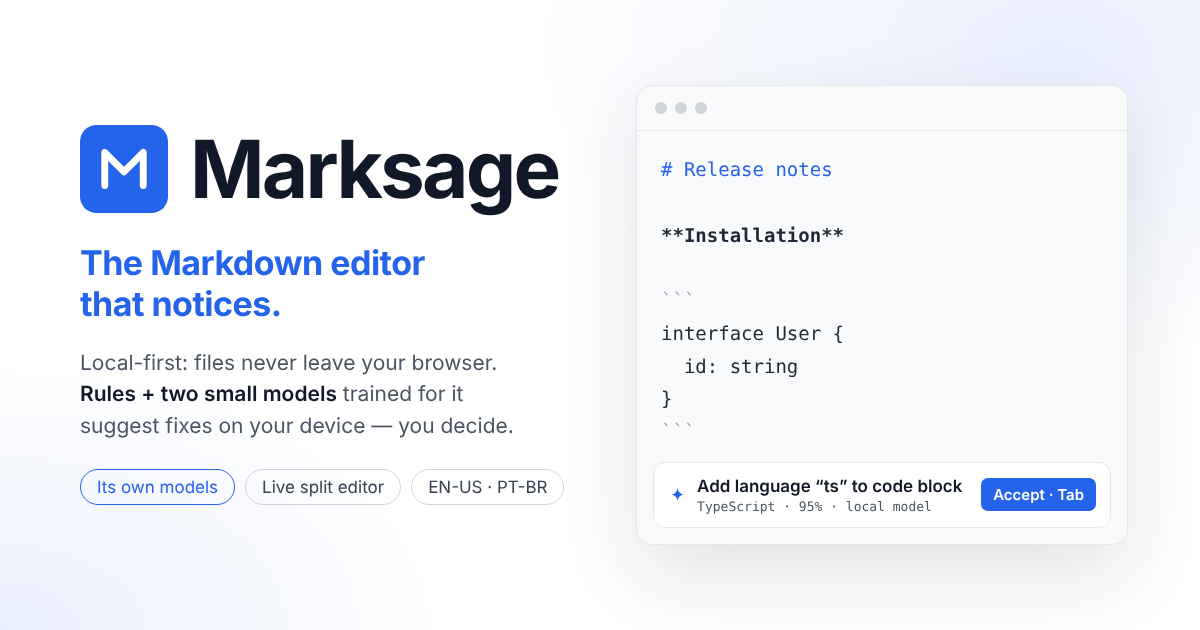
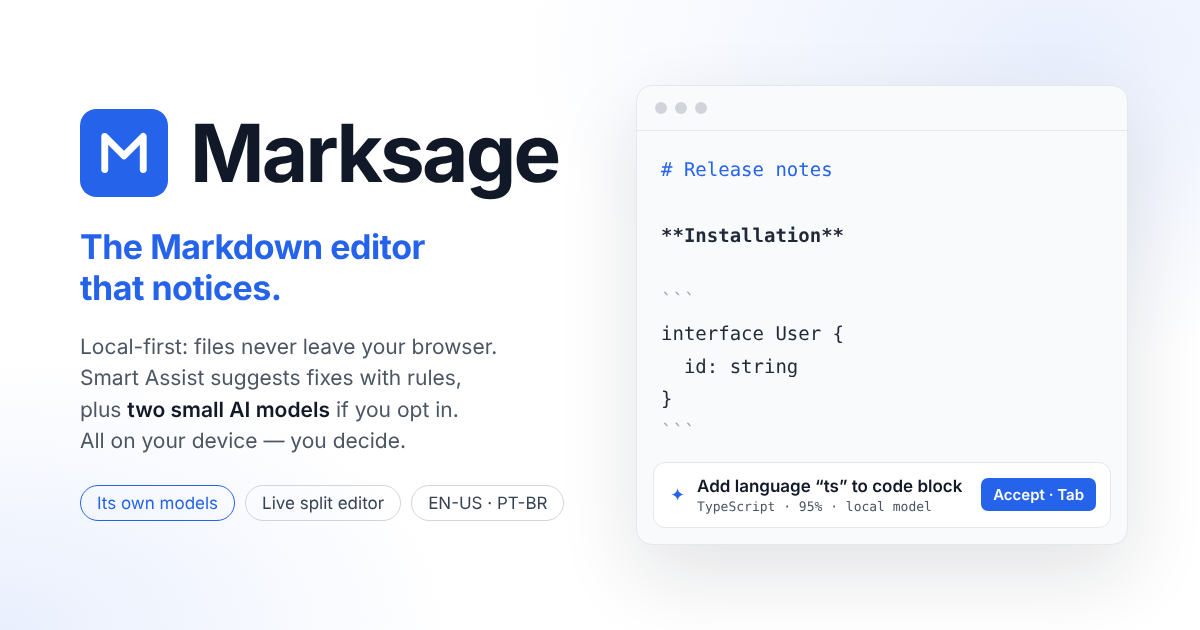
fix(meta): the link-preview image says the AI models are opt-in
The card read "Rules + two small models trained for it suggest fixes on
your device", the default-on reading D02 fixed in the meta tags. Now:
"Smart Assist suggests fixes with rules, plus two small AI models if you
opt in. All on your device — you decide." Dark (shipped) and light
variants re-rendered from scripts/og-image.html; same layout, one more
line.

Claude-Session: https://claude.ai/code/session_01CHMG7XuTZqAr5do9Zkr68i

Changed region(s): [[0.0617, 0.1508, 0.4625, 0.5127], [0.0617, 0.5429, 0.4317, 0.7238], [0.0617, 0.754, 0.4625, 0.8143]]

diff --git a/scripts/og-image.html b/scripts/og-image.html
@@ -6,8 +6,9 @@
     npx playwright screenshot --viewport-size "1200, 630" "file://$PWD/scripts/og-image.html?theme=light" public/og-image-light.png
   The dark one ships (index.html's og:image / twitter:image); the light one is kept ready — point those two tags at
   /og-image-light.png to switch.
-  Keep the words in step with the app: the tagline, what's special (local-first; rules + two small models trained for
-  it), and a suggestion as the app shows it (✦ = the model decided).
+  Keep the words in step with the app: the tagline, what's special (local-first; rules, plus two small AI models if
+  you opt in to Rules + AI — a first visit runs the rules only), and a suggestion as the app shows it (✦ = the model
+  decided).
 -->
 <html lang="en">
   <head>
@@ -101,8 +102,9 @@
       <p class="tagline">The Markdown editor<br />that notices.</p>
       <p class="pitch">
         Local-first: files never leave your browser.<br />
-        <strong>Rules + two small models</strong> trained for it<br />
-        suggest fixes on your device — you decide.
+        Smart Assist suggests fixes with rules,<br />
+        plus <strong>two small AI models</strong> if you opt in.<br />
+        All on your device — you decide.
       </p>
       <div class="chips">
         <span class="chip key">Its own models</span>

diff --git a/IMPLEMENTATION-CONTEXT.md b/IMPLEMENTATION-CONTEXT.md
@@ -1503,3 +1503,12 @@ A ten-agent QA round before the LinkedIn post (report in Pablo's vault: `Persona
   both languages: accepting with Tab from the start gives the three code blocks, then the formatting slips, in the
   checklist's order. Same line, same slips (`check:docs` clean). Still open (QA D13, later): a fresh suggestion
   after Esc, and the nearest candidate across kinds.
+- **The link-preview image says the models are opt-in too** (Pablo, after D02: "let's update our link-preview
+  images too"). Its pitch said "**Rules + two small models** trained for it suggest fixes on your device", the same
+  default-on reading D02 fixed in the tags. Now: "Smart Assist suggests fixes
+  with rules, plus **two small AI models** if you opt in. All on your device — you decide." Four lines instead of
+  three; the left column stays clear of the edges (top 109 px, bottom 521 px of 630), no line wraps. A three-line
+  option ("Rules suggest fixes as you write; turn on two small AI models trained for it — you decide") also fit and
+  was set aside as less clear. `public/og-image.png` (dark, shipped) and `og-image-light.png` re-rendered with the
+  commands in `scripts/og-image.html`, whose note now says to keep the opt-in in the words. Before the change, a
+  render here matched the shipped PNG pixel for pixel, so only the words moved.

diff --git a/CHANGELOG.md b/CHANGELOG.md
@@ -8,7 +8,8 @@ app’s `#story` page and `IMPLEMENTATION-CONTEXT.md`. Dates: America/Sao_Paulo.
 
 ## 3.x — Marksage’s own trained code-language model ships (later the Rules + AI mode)
 
-- **3.48.12** · 2026-11-09 · `(this commit)` · fix(sample): the tour says to follow the checklist, which is what works
+- **3.48.13** · 2026-11-09 · `(this commit)` · fix(meta): the link-preview image says the AI models are opt-in
+- **3.48.12** · 2026-11-09 · `53de76e` · fix(sample): the tour says to follow the checklist, which is what works
 - **3.48.11** · 2026-11-09 · `b689d2e` · fix(copy): American spelling in English, as the EN-US label says
 - **3.48.10** · 2026-11-09 · `7dbbfd4` · fix(copy): every page states the same ship policy for the models
 - **3.48.9** · 2026-11-09 · `ba29640` · fix(docs): a paragraph on the Smart Assist page no longer renders as a heading
